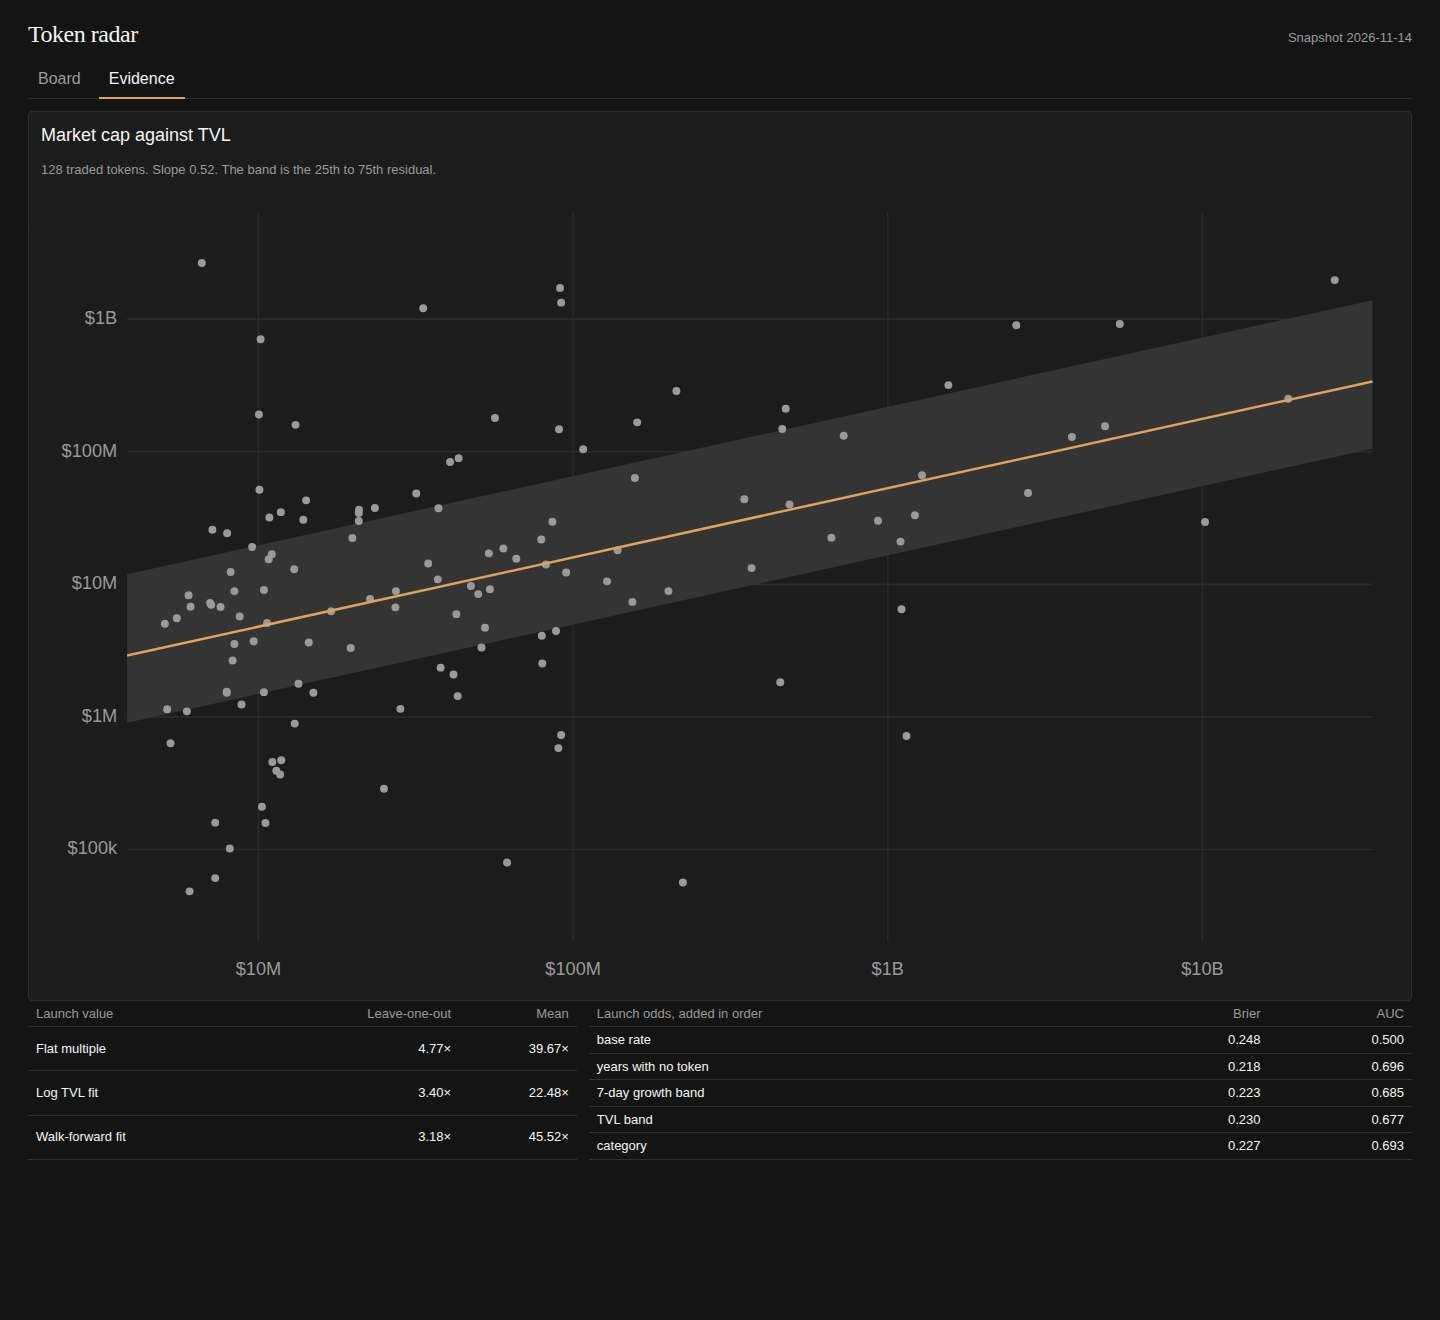
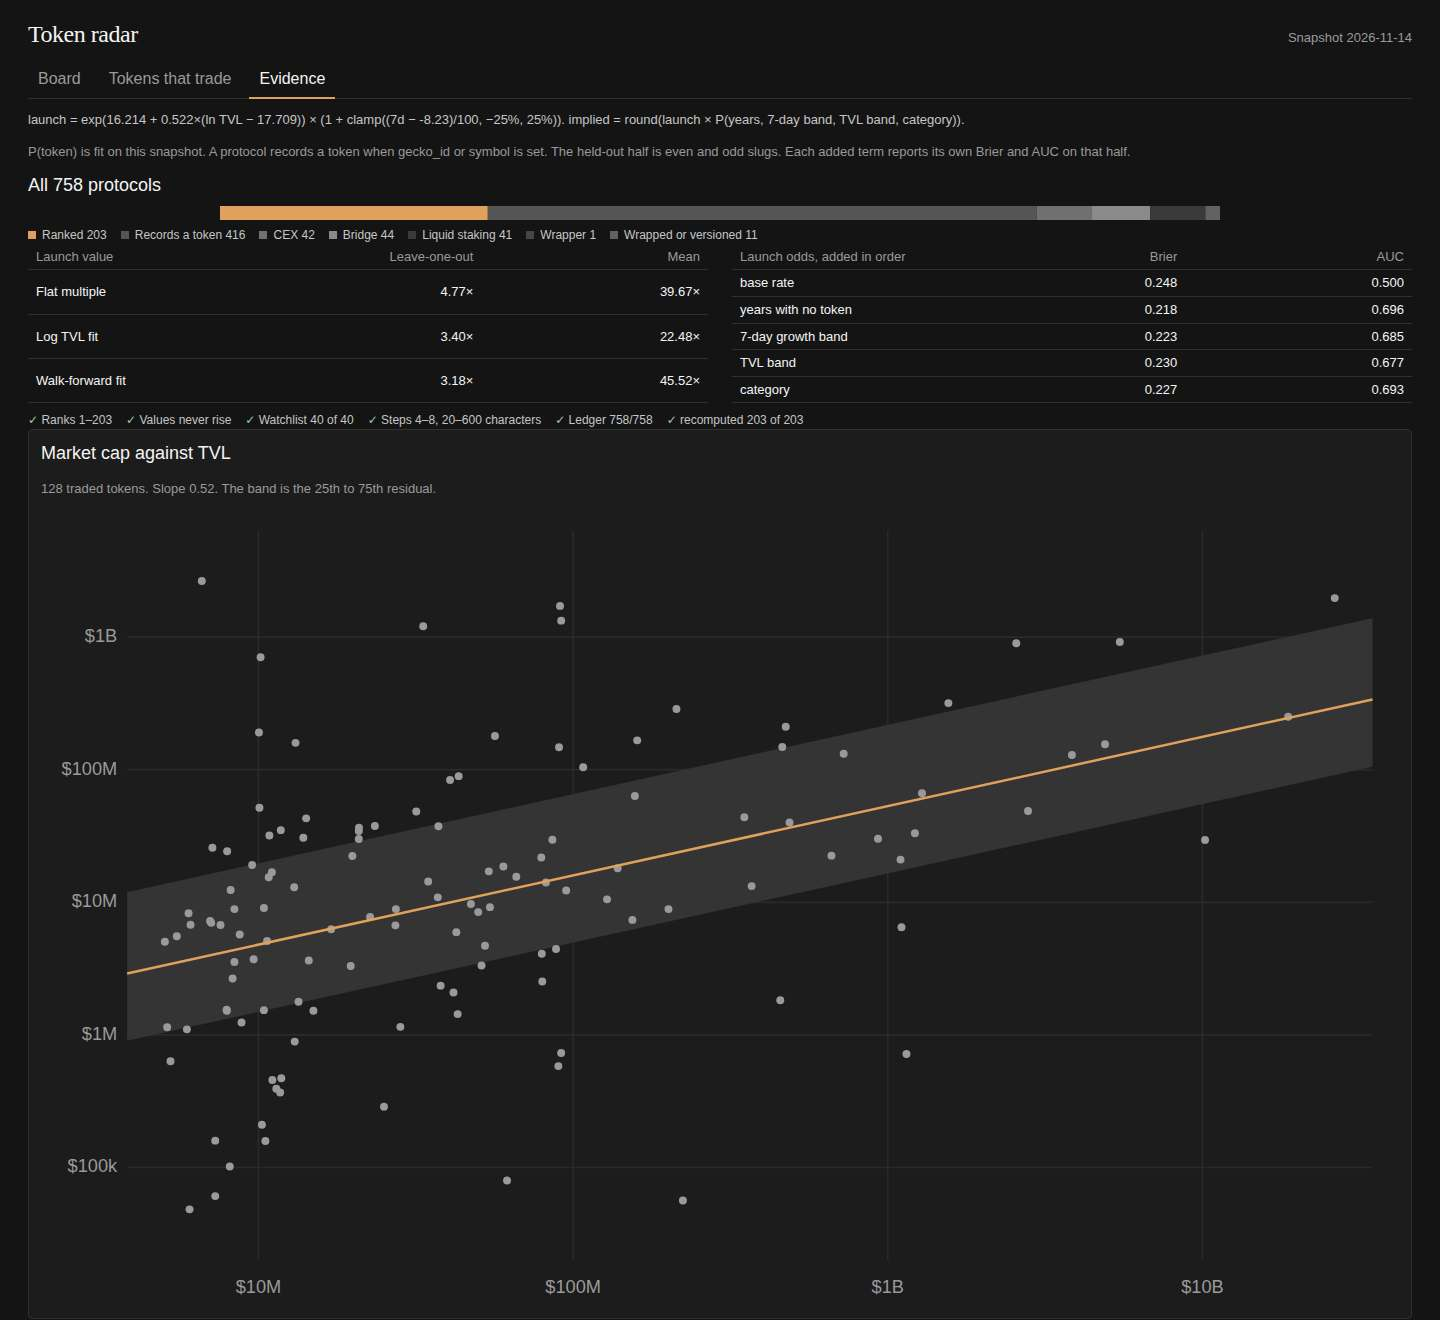
chore: recapture screenshots for the $10k farm board

diff --git a/dashboard/app.js b/dashboard/app.js
@@ -319,7 +319,7 @@
     var checks = [
       [ranks, 'Ranks 1–' + rows.length],
       [order, 'Values never rise'],
-      [watch === DATA.watchlist.length && DATA.watchlist.length === 40, 'Watchlist ' + watch + '/' + DATA.watchlist.length],
+      [watch === DATA.watchlist.length && DATA.watchlist.length === 40, 'Watchlist ' + watch + ' of ' + DATA.watchlist.length],
       [steps, 'Steps 4–8, 20–600 characters'],
       [total === DATA.counts.protocols, 'Ledger ' + total + '/' + DATA.counts.protocols],
       [recomputed === rows.length, 'recomputed ' + recomputed + ' of ' + rows.length],
